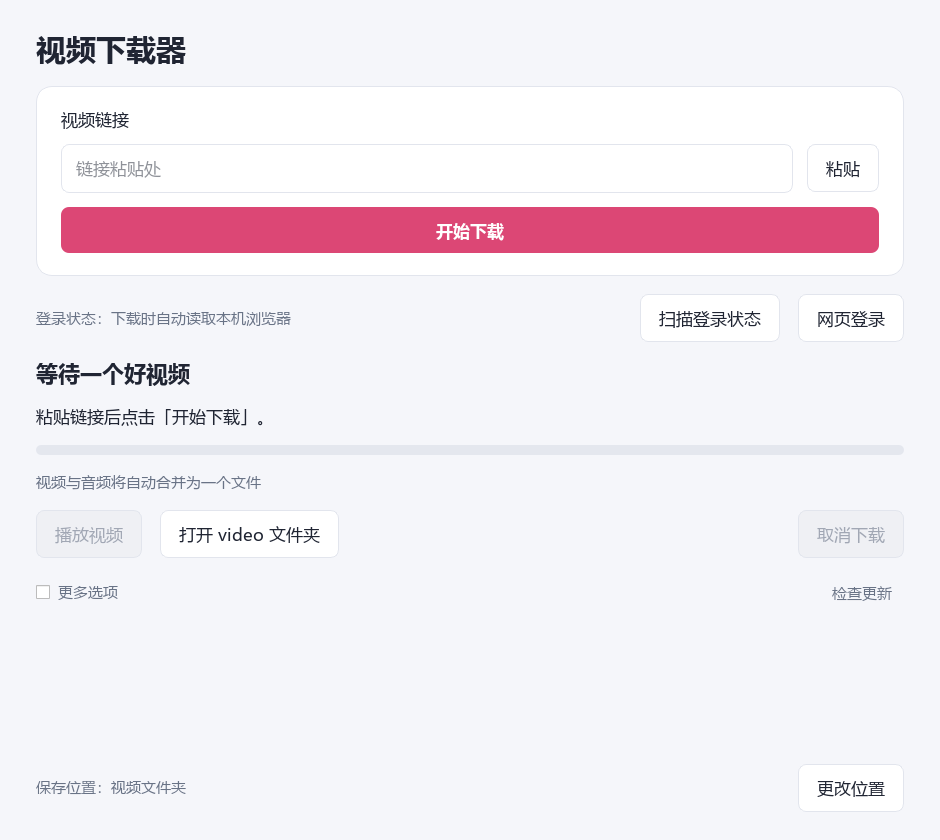
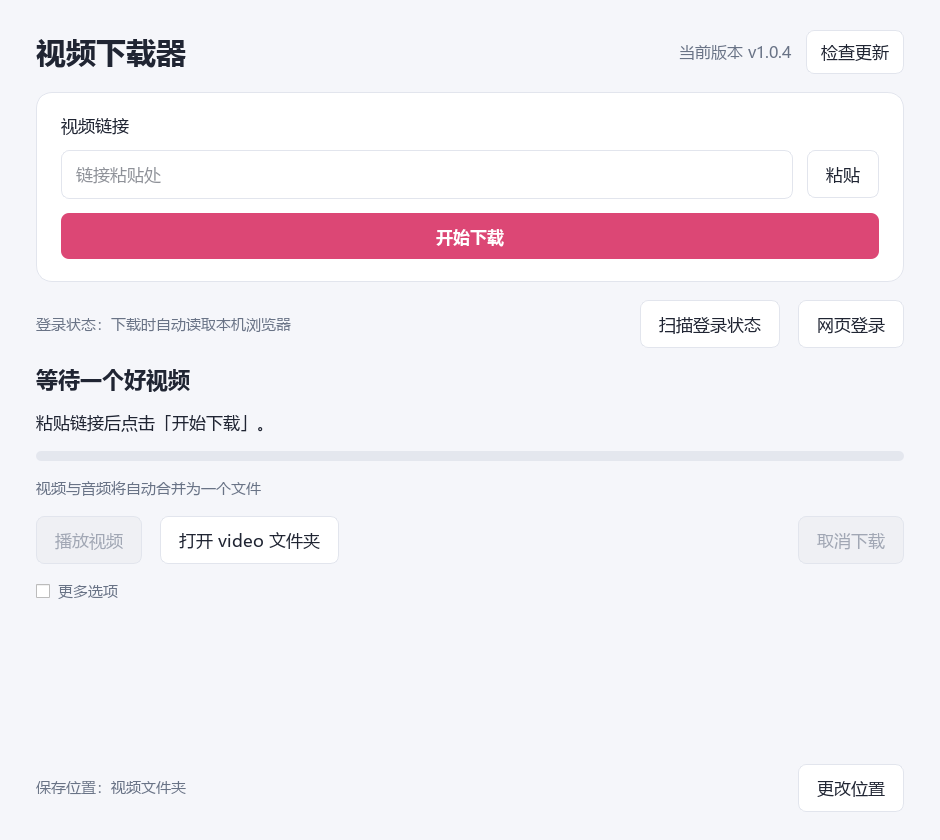
Move version and update indicator to a fixed top-right header in 1.0.4

diff --git a/bilibili/app.py b/bilibili/app.py
@@ -15,11 +15,14 @@ from PySide6.QtWidgets import (
 from platform_links import PLATFORMS, resolve_link
 from runtime_paths import APP_DIR, FROZEN, output_dir, read_settings, save_output, save_settings, worker_command
 from updater import UpdateController
+from app_version import APP_VERSION
 
 ROOT = Path(__file__).resolve().parent
 OUTPUT = output_dir()
 TOKENS = {"background": "#f5f6fa", "surface": "#ffffff", "text": "#202533",
           "muted": "#697386", "accent": "#dc4775", "border": "#e2e5ed"}
+HEADER_METRICS = {"inset": 36, "top": 30, "gap": 14, "version_size": 16,
+                  "update_size": 17, "button_padding_y": 10, "button_padding_x": 14}
 
 
 def clock(seconds):
@@ -59,20 +62,40 @@ class DownloadWindow(QMainWindow):
         self.web_login = None
         self.platform = None
         self.stderr = b""
+        central = QWidget()
+        central.setObjectName("windowRoot")
+        shell = QVBoxLayout(central)
+        shell.setContentsMargins(0, 0, 0, 0)
+        shell.setSpacing(0)
+        self.header = QWidget()
+        self.header.setObjectName("appHeader")
+        header_row = QHBoxLayout(self.header)
+        header_row.setContentsMargins(HEADER_METRICS["inset"], HEADER_METRICS["top"], HEADER_METRICS["inset"], 0)
+        header_row.setSpacing(HEADER_METRICS["gap"])
+        heading = QLabel("视频下载器")
+        heading.setObjectName("heading")
+        header_row.addWidget(heading)
+        header_row.addStretch(1)
+        self.current_version = QLabel("当前版本 v" + APP_VERSION)
+        self.current_version.setObjectName("currentVersion")
+        header_row.addWidget(self.current_version)
+        self.update_button = QPushButton("检查更新")
+        self.update_button.setObjectName("updateButton")
+        self.update_button.setProperty("updateAvailable", False)
+        header_row.addWidget(self.update_button)
+        shell.addWidget(self.header)
         root = QWidget()
         root.setObjectName("content")
         scroll = QScrollArea()
         scroll.setWidgetResizable(True)
         scroll.setFrameShape(QFrame.NoFrame)
         scroll.setWidget(root)
-        self.setCentralWidget(scroll)
+        self.scroll_area = scroll
+        shell.addWidget(scroll, 1)
+        self.setCentralWidget(central)
         layout = QVBoxLayout(root)
-        layout.setContentsMargins(36, 30, 36, 28)
+        layout.setContentsMargins(HEADER_METRICS["inset"], 18, HEADER_METRICS["inset"], 28)
         layout.setSpacing(18)
-
-        heading = QLabel("视频下载器")
-        heading.setObjectName("heading")
-        layout.addWidget(heading)
         box = QFrame()
         box.setObjectName("card")
         form = QVBoxLayout(box)
@@ -150,9 +173,6 @@ class DownloadWindow(QMainWindow):
         options_row = QHBoxLayout()
         options_row.addWidget(self.advanced_toggle)
         options_row.addStretch()
-        self.update_button = QPushButton("检查更新")
-        self.update_button.setObjectName("updateLink")
-        options_row.addWidget(self.update_button)
         layout.addLayout(options_row)
         self.advanced = QWidget()
         extra = QVBoxLayout(self.advanced)
@@ -192,8 +212,9 @@ class DownloadWindow(QMainWindow):
         layout.addLayout(destination_row)
         self.setStyleSheet("""
             QWidget {color: %(text)s; font-family: 'Microsoft YaHei UI'; font-size: 17px;}
-            QMainWindow, QScrollArea, QWidget#content {background: %(background)s;}
+            QMainWindow, QScrollArea, QWidget#content, QWidget#windowRoot, QWidget#appHeader {background: %(background)s;}
             QLabel#heading {font-size: 30px; font-weight: 700;}
+            QLabel#currentVersion {color: %(muted)s; font-size: %(version_size)spx;}
             QLabel#taskTitle {font-size: 22px; font-weight: 600;}
             QLabel#muted {color: %(muted)s; font-size: 15px;}
             QFrame#card {background: %(surface)s; border: 1px solid %(border)s; border-radius: 16px;}
@@ -216,12 +237,13 @@ class DownloadWindow(QMainWindow):
             QPushButton#primary {background: %(accent)s; color: white; border: none; font-weight: 600;}
             QPushButton#primary:hover {background: #c83765;}
             QPushButton#primary:disabled {background: #c9a8b3;}
-            QPushButton#updateLink {background: transparent; color: %(muted)s; border: none; font-size: 15px; padding: 6px 12px;}
-            QPushButton#updateLink:hover {color: %(accent)s;}
+            QPushButton#updateButton {font-size: %(update_size)spx; padding: %(button_padding_y)spx %(button_padding_x)spx;}
+            QPushButton#updateButton[updateAvailable="true"] {background: %(accent)s; color: white; border-color: %(accent)s; font-weight: 600;}
+            QPushButton#updateButton[updateAvailable="true"]:hover {background: #c83765; border-color: #c83765;}
             QProgressBar {background: #e4e7ee; border: none; border-radius: 5px; height: 10px; max-height: 10px;}
             QProgressBar::chunk {background: %(accent)s; border-radius: 5px;}
             QCheckBox {spacing: 8px; font-size: 15px; color: %(muted)s;}
-        """ % {**TOKENS, "chevron": (ROOT / "assets/chevron-down.svg").as_posix()})
+        """ % {**TOKENS, **HEADER_METRICS, "chevron": (ROOT / "assets/chevron-down.svg").as_posix()})
         for label in self.findChildren(QLabel):
             label.setTextFormat(Qt.PlainText)
         if auto_scan:

diff --git a/bilibili/updater.py b/bilibili/updater.py
@@ -51,10 +51,20 @@ class UpdateController(QObject):
         self.installer = None
         self.dialog = None
 
+    def refresh_button(self, *, checking=False):
+        button = self.window.update_button
+        available = bool(self.info and self.info.available)
+        button.setText("正在检查…" if checking else f"发现新版本 v{self.info.version}" if available else "检查更新")
+        button.setProperty("updateAvailable", available)
+        button.setToolTip(f"当前版本 v{APP_VERSION}" + (f"，可更新至 v{self.info.version}" if available else ""))
+        button.style().unpolish(button)
+        button.style().polish(button)
+        button.update()
+
     def check(self, *, manual=False):
         if any(job.isRunning() for job in self.jobs):
             return
-        self.window.update_button.setText("正在检查…")
+        self.refresh_button(checking=True)
         self.window.update_button.setEnabled(False)
         job = UpdateJob()
         self.jobs.append(job)
@@ -65,7 +75,7 @@ class UpdateController(QObject):
 
     def job_finished(self, job):
         self.window.update_button.setEnabled(True)
-        self.window.update_button.setText("发现新版本" if self.info and self.info.available else "检查更新")
+        self.refresh_button()
         if job in self.jobs:
             self.jobs.remove(job)
         job.deleteLater()
@@ -74,6 +84,7 @@ class UpdateController(QObject):
         if not self.info or self.info.version != info.version:
             self.installer = None
         self.info = info
+        self.refresh_button()
         if info.available:
             self.window.logs.appendPlainText("发现新版本 " + info.version + "，可点击「发现新版本」更新。")
         if manual:

diff --git a/bilibili/packaging/package_release.py b/bilibili/packaging/package_release.py
@@ -71,7 +71,7 @@ def main():
             raise RuntimeError("APK is missing the latest shared download engine")
     shutil.copy2(built_apk, android)
     base = f"https://github.com/{REPOSITORY}/releases/download/v{APP_VERSION}/"
-    notes = "修复滚轮误切换登录来源，更新下拉箭头；加入 GitHub 自动检查更新；发布目录仅保留最新版，保留完整音画与并发下载。"
+    notes = "Windows 更新入口移到顶部右侧并固定显示；常驻展示当前版本，发现新版时突出显示新版版本号。"
     manifest = {"schema": 1, "product": "LocalVideoDownloader", "notes": notes, "platforms": {}}
     for platform, path in (("windows", windows), ("android", android)):
         manifest["platforms"][platform] = {"version": APP_VERSION, "url": base + path.name,

diff --git a/android/preview_qml.py b/android/preview_qml.py
@@ -21,7 +21,7 @@ class Preview(QObject):
     busy = Property(bool, lambda s: False, notify=changed)
     complete = Property(bool, lambda s: True, notify=changed)
     progress = Property(float, lambda s: 1.0, notify=changed)
-    version = Property(str, lambda s: "1.0.3", notify=changed)
+    version = Property(str, lambda s: "1.0.4", notify=changed)
     updateStatus = Property(str, lambda s: "已经是最新版本", notify=changed)
     updateAvailable = Property(bool, lambda s: False, notify=changed)
     autoUpdate = Property(bool, lambda s: True, notify=changed)

diff --git a/android/package/src/com/localvideodownloader/app/AppVersion.java b/android/package/src/com/localvideodownloader/app/AppVersion.java
@@ -1,6 +1,6 @@
 package com.localvideodownloader.app;
 public final class AppVersion {
-  public static final String VERSION = "1.0.3";
+  public static final String VERSION = "1.0.4";
   public static final String REPOSITORY = "WKing-1217/video-downloader";
   public static final String UPDATE_URL = "https://github.com/" + REPOSITORY + "/releases/latest/download/update.json";
 }

diff --git a/bilibili/packaging/docs/validation.md b/bilibili/packaging/docs/validation.md
@@ -1,14 +1,11 @@
-# 1.0.3 验证
+# 1.0.4 验证
 
-- 32 项完整性、链接识别、浏览器状态、图文及重试检查通过。
-- 11 项 HTTP 并发、断点检查、错误范围、截断、备用节点与完整内容一致性检查通过。
-- 10 项更新检查、版本比较、SHA-256 校验、损坏/截断拦截、取消及设置保留检查通过。
-- 真实 Qt 更新窗口通过新版提示、下载安装包、下载中阻止安装、文件改变后阻止执行、保留原安装目录等交互检查；测试未执行模拟安装程序。
-- 登录来源在收起时，有焦点和无焦点两种情况下均不会被滚轮改选，页面仍能滚动；展开后可滚动列表并点击选择，键盘选择正常。100% 与 150% 缩放及最小窗口下已检查箭头与布局。
-- Windows 独立 Qt 程序与内置下载服务可正常运行，不依赖外部 Python / FFmpeg；已有 49 分 41 秒、1080p 完整视频复用校验通过。
-- Android 11 x86_64 模拟器由 1.0.0 覆盖升级到 1.0.2，系统确认版本代码 102，签名保持一致；Qt 界面和 4 分 55 秒完整视频流程通过。
-- GitHub 发布后，安卓 1.0.2 从公开地址发现 1.0.3；覆盖升级成功，系统确认版本代码 103。新版本手动检查显示“已经是最新版本”，并在真实 Qt 界面完成 1080p、4 分 55 秒视频的已有完整文件复用校验。
-- Windows 生产更新模块从公开 GitHub 清单正确判断旧版需要升级、当前版已是最新；实际下载完整的 269,737,419 字节安装包，文件大小及 SHA-256 与本地发布包完全一致。此项验证未执行安装程序。
-- 原生日图文、实况与配乐流程的校验继续由自动检查覆盖。
+- Windows 当前版本、唯一的更新入口位于固定标题行右侧；检查中、已是最新、发现新版三种状态均保留当前版本。新版提示包含完整版本号并使用强调色按钮。
+- 真实 Qt 界面在 940×840、760×650 窗口及 100%、150% 缩放下检查通过；展开选项并滚动到底部后，标题行与更新入口仍然可见，文字不截断、控件不重叠。
+- 登录来源滚轮误切换修复通过本次交互复查：收起时滚动页面，展开后可滚动列表、点击和键盘选择。
+- 本次 10 项更新核心检查通过；真实 Qt 更新窗口通过新版提示、下载校验、视频下载中阻止安装、文件改变后阻止执行、保留原安装目录等交互检查。验证未执行模拟安装程序。
+- 本次未改动视频下载内核，沿用 1.0.3 已通过的 32 项完整性等检查、11 项 HTTP 并发及备用节点检查，以及 49 分 41 秒、1080p 视频完整解码结果。
+- 新版 Windows 独立 Qt 程序在 PATH 不包含外部 Python / FFmpeg 时，通过 49 分 41 秒、1080p 已有完整视频的复用校验；标题行实际截图检查通过。
+- Android 本次同步版本至 1.0.4、版本代码 104；APK v2 签名验证通过，沿用原签名。安卓界面与下载内核未改动，模拟器更新及完整视频流程的最近验证版本为 1.0.3。
 
-尚未在实体 ARM64 手机上进行本次升级验证。
+本次未在实体 ARM64 手机上进行升级验证。

diff --git a/docs/validation.md b/docs/validation.md
@@ -1,14 +1,11 @@
-# 1.0.3 验证
+# 1.0.4 验证
 
-- 32 项完整性、链接识别、浏览器状态、图文及重试检查通过。
-- 11 项 HTTP 并发、断点检查、错误范围、截断、备用节点与完整内容一致性检查通过。
-- 10 项更新检查、版本比较、SHA-256 校验、损坏/截断拦截、取消及设置保留检查通过。
-- 真实 Qt 更新窗口通过新版提示、下载安装包、下载中阻止安装、文件改变后阻止执行、保留原安装目录等交互检查；测试未执行模拟安装程序。
-- 登录来源在收起时，有焦点和无焦点两种情况下均不会被滚轮改选，页面仍能滚动；展开后可滚动列表并点击选择，键盘选择正常。100% 与 150% 缩放及最小窗口下已检查箭头与布局。
-- Windows 独立 Qt 程序与内置下载服务可正常运行，不依赖外部 Python / FFmpeg；已有 49 分 41 秒、1080p 完整视频复用校验通过。
-- Android 11 x86_64 模拟器由 1.0.0 覆盖升级到 1.0.2，系统确认版本代码 102，签名保持一致；Qt 界面和 4 分 55 秒完整视频流程通过。
-- GitHub 发布后，安卓 1.0.2 从公开地址发现 1.0.3；覆盖升级成功，系统确认版本代码 103。新版本手动检查显示“已经是最新版本”，并在真实 Qt 界面完成 1080p、4 分 55 秒视频的已有完整文件复用校验。
-- Windows 生产更新模块从公开 GitHub 清单正确判断旧版需要升级、当前版已是最新；实际下载完整的 269,737,419 字节安装包，文件大小及 SHA-256 与本地发布包完全一致。此项验证未执行安装程序。
-- 原生日图文、实况与配乐流程的校验继续由自动检查覆盖。
+- Windows 当前版本、唯一的更新入口位于固定标题行右侧；检查中、已是最新、发现新版三种状态均保留当前版本。新版提示包含完整版本号并使用强调色按钮。
+- 真实 Qt 界面在 940×840、760×650 窗口及 100%、150% 缩放下检查通过；展开选项并滚动到底部后，标题行与更新入口仍然可见，文字不截断、控件不重叠。
+- 登录来源滚轮误切换修复通过本次交互复查：收起时滚动页面，展开后可滚动列表、点击和键盘选择。
+- 本次 10 项更新核心检查通过；真实 Qt 更新窗口通过新版提示、下载校验、视频下载中阻止安装、文件改变后阻止执行、保留原安装目录等交互检查。验证未执行模拟安装程序。
+- 本次未改动视频下载内核，沿用 1.0.3 已通过的 32 项完整性等检查、11 项 HTTP 并发及备用节点检查，以及 49 分 41 秒、1080p 视频完整解码结果。
+- 新版 Windows 独立 Qt 程序在 PATH 不包含外部 Python / FFmpeg 时，通过 49 分 41 秒、1080p 已有完整视频的复用校验；标题行实际截图检查通过。
+- Android 本次同步版本至 1.0.4、版本代码 104；APK v2 签名验证通过，沿用原签名。安卓界面与下载内核未改动，模拟器更新及完整视频流程的最近验证版本为 1.0.3。
 
-尚未在实体 ARM64 手机上进行本次升级验证。
+本次未在实体 ARM64 手机上进行升级验证。

diff --git a/bilibili/DESIGN.md b/bilibili/DESIGN.md
@@ -15,3 +15,5 @@
 1.0.2 的更新入口放在原选项行右侧，不增加主流程说明行。后台检查仅改变更新入口文字，网络失败不弹窗；手动检查才打开对话框。Windows 更新包校验后由用户安装，安装前必须结束视频任务。两端均可关闭启动检查。设置合并保存，更新开关和视频目录不能互相覆盖。发布文件名固定，各平台仅保留最新版。
 
 1.0.3 的登录来源收起时忽略滚轮，将页面滚动交还外层；展开后保留列表滚动、点击和键盘选择。下拉箭头使用统一颜色的 SVG，避免原生箭头边框与圆角输入框冲突。
+
+1.0.4 按用户箭头将当前版本和唯一的更新入口放在标题行右侧。标题行固定在滚动内容外，展开更多选项或滚动日志时仍可见。发现新版时按钮以强调色显示“发现新版本 v版本号”，当前版本持续可见；底部移除重复入口。保留后台静默检查和手动确认安装。

diff --git a/README.md b/README.md
@@ -22,6 +22,8 @@ Qt 图形界面，粘贴链接即可自动识别 Bilibili、抖音和 X，保存
 
 两端启动时自动检查 GitHub 新版本，“更多选项”中可关闭。也可点击“检查更新”。Windows 下载更新后检查文件大小和 SHA-256，用户点击后启动原目录升级；进行视频下载时不会安装更新。Android 发现新版后打开 GitHub APK 下载链接，由系统确认安装。
 
+Windows 当前版本与更新入口固定在标题行右上角，发现新版时显示带版本号的粉色按钮；展开选项或滚动页面时仍然可见。
+
 更新检查只请求公开发布信息，不使用视频网站登录资料。网络不可用时不会打断视频下载。
 
 ## 源码与构建

diff --git a/bilibili/packaging/README.github.md b/bilibili/packaging/README.github.md
@@ -22,6 +22,8 @@ Qt 图形界面，粘贴链接即可自动识别 Bilibili、抖音和 X，保存
 
 两端启动时自动检查 GitHub 新版本，“更多选项”中可关闭。也可点击“检查更新”。Windows 下载更新后检查文件大小和 SHA-256，用户点击后启动原目录升级；进行视频下载时不会安装更新。Android 发现新版后打开 GitHub APK 下载链接，由系统确认安装。
 
+Windows 当前版本与更新入口固定在标题行右上角，发现新版时显示带版本号的粉色按钮；展开选项或滚动页面时仍然可见。
+
 更新检查只请求公开发布信息，不使用视频网站登录资料。网络不可用时不会打断视频下载。
 
 ## 源码与构建

diff --git a/bilibili/README.md b/bilibili/README.md
@@ -104,4 +104,6 @@ FFmpeg 可用 `winget install --id Gyan.FFmpeg --exact` 安装，安装后重新
 
 两端启动时从 GitHub Release 检查新版本，也可点击“检查更新”。Windows 校验安装包大小及 SHA-256 后，由用户点击安装；安装到原目录，视频下载期间禁止升级。Android 发现新版后打开 GitHub APK 下载链接，由系统确认覆盖安装。更多选项中可关闭启动检查。更新请求不使用视频网站登录信息。
 
+Windows 当前版本和更新按钮固定在右上角标题行，滚动页面时仍然可见；发现新版时按钮会突出显示完整的新版本号。
+
 项目：https://github.com/WKing-1217/video-downloader
